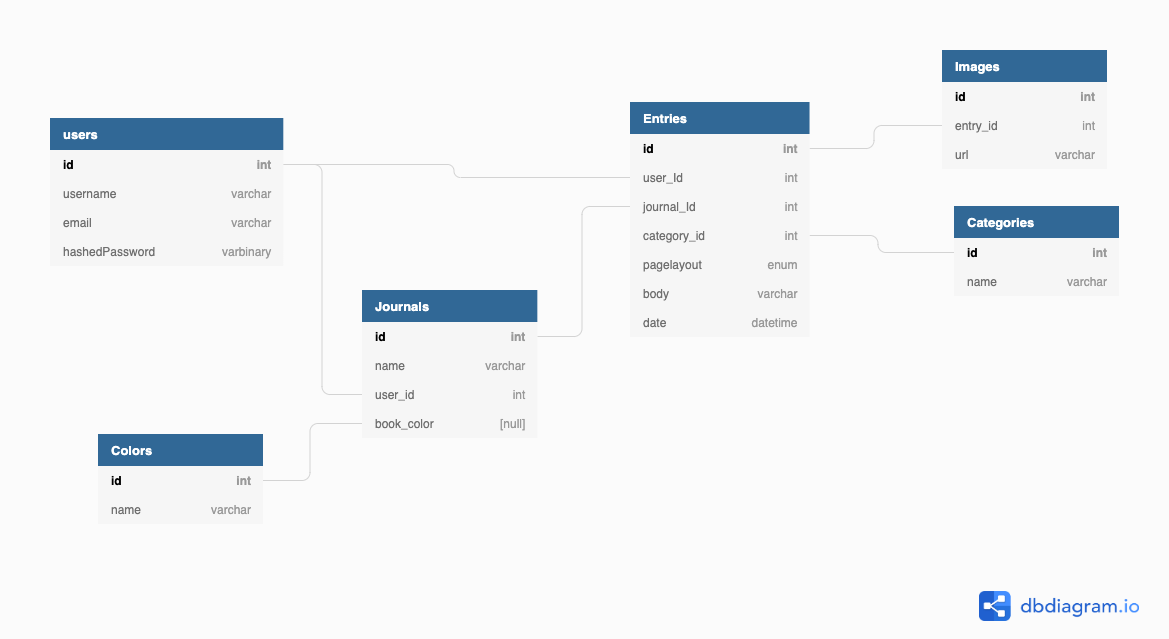
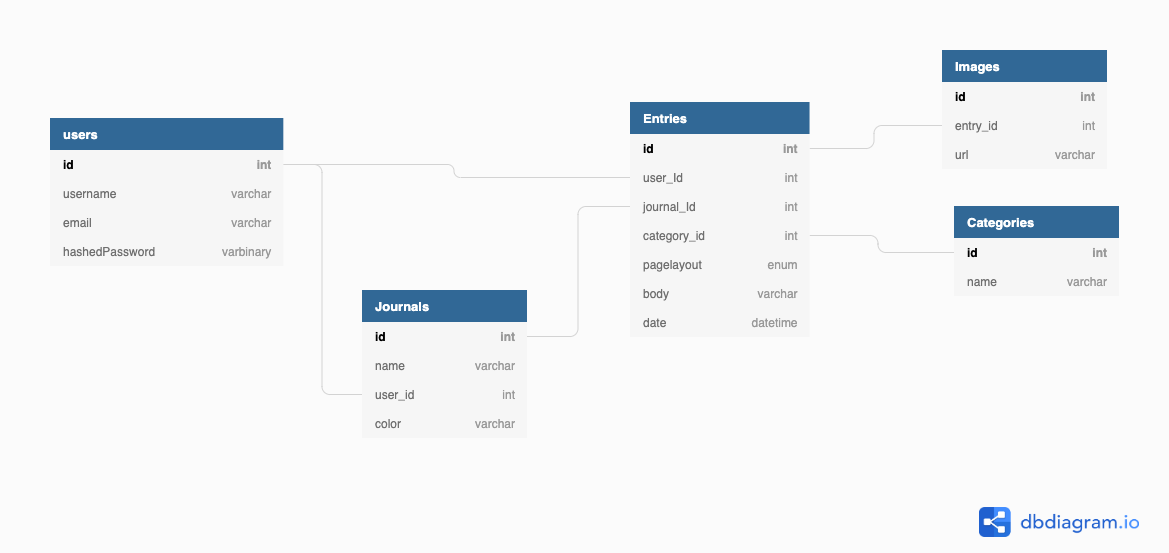
seeders complete

diff --git a/app/seeds/__init__.py b/app/seeds/__init__.py
@@ -1,5 +1,8 @@
 from flask.cli import AppGroup
 from .users import seed_users, undo_users
+from .journals import seed_journals, undo_journals
+from .entries import seed_entries, undo_entries
+from .images import seed_images, undo_images
 
 
 # Creates a seed group to hold our commands
@@ -10,10 +13,16 @@ seed_commands = AppGroup('seed')
 @seed_commands.command('all')
 def seed():
     seed_users(),
+    seed_journals(),
+    seed_entries(),
+    seed_images()
     # Add other seed functions here
 
 # Creates the `flask seed undo` command
 @seed_commands.command('undo')
 def undo():
     undo_users(),
+    undo_journals(),
+    undo_entries(),
+    undo_images()
     # Add other undo functions here

diff --git a/app/seeds/entries.py b/app/seeds/entries.py
@@ -1,0 +1,24 @@
+from app.models import db, Journal, Entry, User, Category
+import datetime
+
+def seed_entries():
+    user = User.query.first()
+    journal = Journal.query.first()
+    category = Category.query.first()
+
+    demo = Entry(
+        body = 'My first journal entry, How remarkable',
+        date = datetime.datetime.now(),
+        page_layout = 'layout_two',
+        user_id = user.id,
+        journal_id = journal.id,
+        category_id = category.id
+    )
+
+    db.session.add(demo)
+
+    db.session.commit()
+
+def undo_entries():
+    db.session.execute('TRUNCATE entries CASCADE;')
+    db.session.commit()

diff --git a/app/seeds/images.py b/app/seeds/images.py
@@ -1,0 +1,17 @@
+from app.models import db, Entry, Image
+
+def seed_images():
+    entry = Entry.query.first()
+
+    demo = Image(
+        url = 'https://cff2.earth.com/uploads/2017/09/31200356/Nature-imagery-has-a-calming-effects-on-prisoners.jpg',
+        entry_id = entry.id
+    )
+
+    db.session.add(demo)
+
+    db.session.commit()
+
+def undo_images():
+    db.session.execute('TRUNCATE images CASCADE;')
+    db.session.commit()

diff --git a/app/seeds/journals.py b/app/seeds/journals.py
@@ -1,0 +1,19 @@
+from app.models import db, User, Journal
+
+def seed_journals():
+    user = User.query.first()
+
+    demo = Journal(
+        name = 'My First Journal',
+        color = '#ff9800',
+        user_id = user.id
+    )
+
+    db.session.add(demo)
+
+    db.session.commit()
+
+
+def undo_journals():
+    db.session.execute('TRUNCATE journals CASCADE;')
+    db.session.commit()

diff --git a/app/api/journal_routes.py b/app/api/journal_routes.py
@@ -1,5 +1,5 @@
 from flask import Blueprint, request
-# from app.models import Journal
+from app.models import Journal
 from app.forms import JournalForm
 from flask_login import login_required, current_user
 from .auth_routes import validation_errors_to_error_messages

diff --git a/app/seeds/users.py b/app/seeds/users.py
@@ -16,5 +16,5 @@ def seed_users():
 # TRUNCATE Removes all the data from the table, and resets
 # the auto incrementing primary key
 def undo_users():
-    db.session.execute('TRUNCATE users;')
+    db.session.execute('TRUNCATE users CASCADE;')
     db.session.commit()

diff --git a/app/models/journals.py b/app/models/journals.py
@@ -16,6 +16,6 @@ class Journal(db.Model, UserMixin):
         return {
             'id': self.id,
             'name': self.name,
-            'color': self.color.shade,
+            'color': self.color,
             'user': self.user.username
             }
